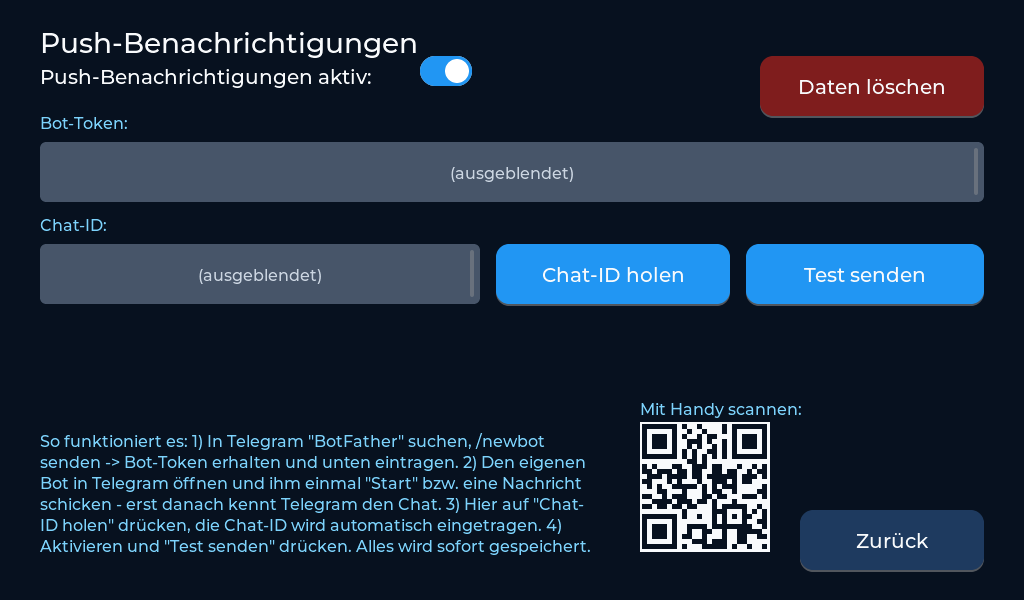
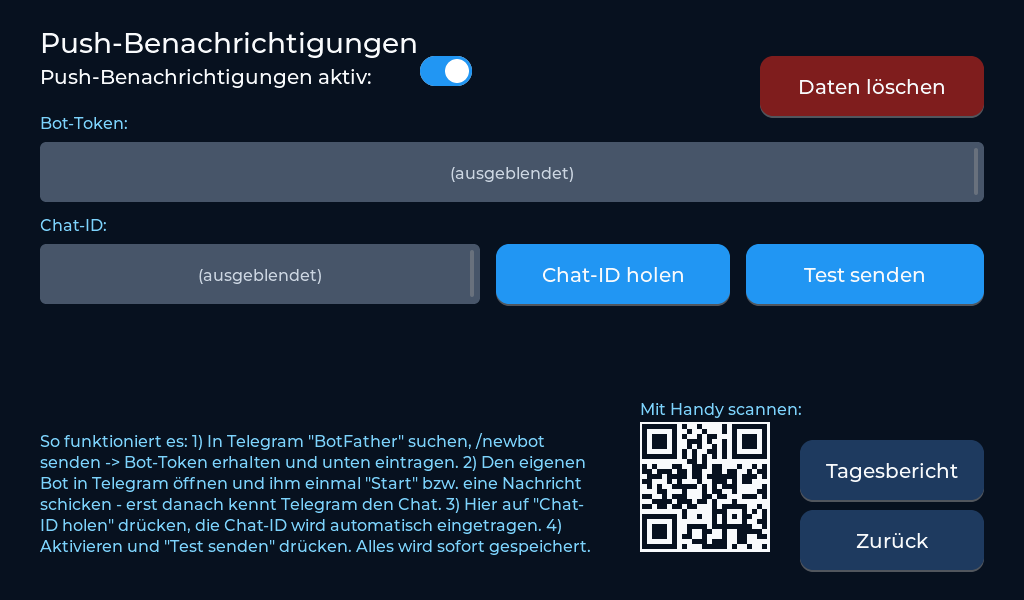
README: Tagesbericht per Telegram mit Bild, Push-Seite aktualisiert

Changed region(s): [[0.7812, 0.72, 0.9688, 0.84]]

diff --git a/README.md b/README.md
@@ -11,6 +11,7 @@ Ein 7-Zoll-Touchdisplay, das rund um die Uhr auf dein Wohnmobil aufpasst:
 - 🌡 **Temperaturen** innen, außen und im Kühlschrank – Warnung bei zu warm oder zu kalt
 - 🚨 **Alarmanlage** mit Tür-, Fenster- und Bewegungsmeldern, **Rauch- und Gasmelder** rund um die Uhr
 - 📱 **Push-Nachrichten per Telegram** für jede Warnung – du entscheidest, worüber du informiert werden willst
+- 🗓 **Tagesbericht per Telegram:** einmal am Tag zur Wunschzeit alle wichtigen Werte aufs Handy – Batterien, Tanks, Gas, Solar, Temperaturen, Alarm (ab dem nächsten Update)
 - 📡 **Sensor offline oder Batterie schwach?** Auch das meldet das Display
 
 Es ersetzt das originale Schaudt-Bedienteil **LT 100** und nutzt dessen **vorhandene Stecker und Kabel**.
@@ -35,6 +36,7 @@ Zum Ausprobieren läuft es **72 Stunden kostenlos und ohne Einschränkung**.
 | **Rauch / Gas** | Zigbee-Melder, rund um die Uhr überwacht |
 | **Landstrom** | Anzeige, ob 230 V anliegen |
 | **Push-Nachrichten** | Alarm, Grenzwerte, schwache Batterien, Sensor offline – per Telegram aufs Handy |
+| **Tagesbericht** | täglich zur eingestellten Uhrzeit eine Zusammenfassung per Telegram, Inhalte frei wählbar (ab dem nächsten Update) |
 | **Komfort** | Kachelnamen und Farben frei wählbar, Nachtabschaltung, Näherungssensor weckt das Display, Einstellen per Handy-Webseite |
 | **Updates** | Neue Versionen per WLAN direkt am Display |
 
@@ -49,8 +51,10 @@ Die komplette **[Bedienungsanleitung (PDF)](docs/Bedienungsanleitung.pdf)** zeig
 | ![JK-BMS](bilder/screenshots/bms.png) | ![Zigbee](bilder/screenshots/zigbee.png) |
 | **Setup Alarmanlage** | **Setup Display** |
 | ![Setup Alarmanlage](bilder/screenshots/alarm.png) | ![Setup Display](bilder/screenshots/display.png) |
-| **Setup Push-Nachrichten** | **Setup Victron-Laderegler** |
-| ![Setup Push](bilder/screenshots/push.png) | ![Setup Victron](bilder/screenshots/victronsetup.png) |
+| **Setup Push-Nachrichten** | **Tagesbericht per Telegram** |
+| ![Setup Push](bilder/screenshots/push.png) | ![Tagesbericht](bilder/screenshots/tagesbericht.png) |
+| **Setup Victron-Laderegler** | |
+| ![Setup Victron](bilder/screenshots/victronsetup.png) | |
 
 *Victron- und BMS-Seite mit Beispielwerten; Bot-Token, Chat-ID und Victron-Schlüssel sind im Bild ausgeblendet.*
 
